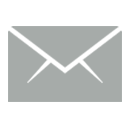
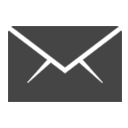
sd

diff --git a/underc.css b/underc.css
@@ -10,21 +10,21 @@ body {
 #logo{ width: 15%; height: auto;display: block; margin: auto;}
 
 h1{ text-align: center; color: black; font-size: 40px;font-family: archive; margin: 0px;}
-h2{text-align: center; color: #6e6e6e; margin: 0px;margin-bottom: 30px;}
+h2{text-align: center; color: #454545; margin: 0px;margin-bottom: 30px;}
 #camera{width:128px; height: 128px;margin: auto; margin-bottom: 40px; display: block;}
 #contact {border: 1px olid black;box-sizing: border-box; display: flex;}
 #contact {border: 1px slid black;width: 100%; height: 70px; }
 #email,#phone{width: 50%; height: 70px; box-sizing: border-box;display: flex; justify-content: flex-end; align-items: center;padding-right:10px;border-right: 2px solid #a6aba9;}
 #phone{justify-content: flex-start; align-items: center;  padding-left:10px;border-right: 0px solid black;border-left: 2px solid #a6aba9;}
 #email img,#phone img{width: 32px; height: 32px;} 
-#email p,#phone p{color: #a6aba9; height: 32px;margin: 0px;padding-top:7px;box-sizing: border-box;padding-left: 10px; font-size: 18px;}
-#site{font-size: 35px; margin-top: -30px;text-align: center;color:#a6aba9; }
-#con{font-size: 40px; margin-top: -40px;text-align: center;color:#a6aba9; }
+#email p,#phone p{color: #454545; height: 32px;margin: 0px;padding-top:7px;box-sizing: border-box;padding-left: 10px; font-size: 18px;}
+#site{font-size: 35px; margin-top: -30px;text-align: center;color:#454545; }
+#con{font-size: 40px; margin-top: -40px;text-align: center;color:#454545; }
    @media only screen and (max-width: 780px) {
        #logo{width:35%; }
        h1{font-size: 30px;}
        h2{font-size: 20px;margin-bottom: 20px;}
-       p{text-align: center; color:#a6aba9; font-family: sans-serif; }
+       p{text-align: center; color:#454545; font-family: sans-serif; }
 #site{font-size: 30px; margin-top: -30px;}
 #con{font-size: 35px; margin-top: -40px;}
        #contact{flex-direction: column; height: 80px; width: 100%;position: relative; top: 10px;}

diff --git a/index.html b/index.html
@@ -2,7 +2,8 @@
 <html>
 <head>
     <meta name="viewport" content="width=device-width, initial-scale=1.0">
-   <link href="underc.css" rel="stylesheet" type="text/css" >
+    
+    <link href="underc.css" rel="stylesheet" type="text/css" >
     </head>
 
 <body>
@@ -16,7 +17,7 @@
     <p id="con">construction!</p>
     <div id="contact">
     <div id="email"><img src="images/email.png"><p>sales@tenfinish.com</p></div>
-    <div id="phone"><img src="images/phone.png"><p>+919943654791</p></div>
+    <div id="phone"><img src="images/phone.png"><p>+919884829434</p></div>
     
     </div>
     
